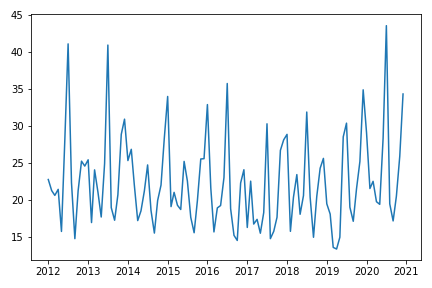
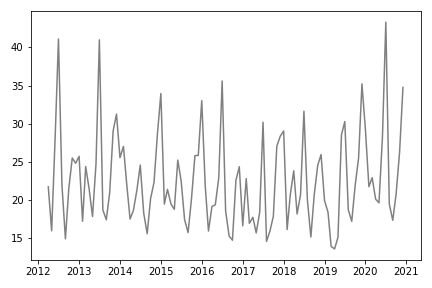
update

diff --git a/src/figures.py b/src/figures.py
@@ -22,17 +22,10 @@ def setup():
 
 def load_data(wd):
     df_yearly = pd.read_csv(wd.parent/'out'/'data'/'dataset_yearly.csv')
-    df = pd.read_csv(wd.parent/'out'/'data'/'dataset_all.csv')
-    # prepare data
-    #df = df[df.pop_dens != 0] # drop grid cells with no population
-    #df = df[df.nl.notnull()] # first 3 months of 2012 no data for nightlight
-    #df = df[df.pop_dens > 0] # drop grid cells with no population
-    #df = df[df.date_first_vend_prepaid.notnull()]
-    #df = df[df.dist_tr <= 0.02]
+    df = pd.read_csv(wd.parent/'out'/'data'/'dataset_month.csv')
     counties = df[df.date_first_vend_prepaid.notnull()].county.unique().tolist()
     df = df[df.county.isin(counties)]
     df_yearly = df_yearly[df_yearly.county.isin(counties)]
-
     return df, df_yearly, counties
 
 def load_shp(wd, counties):
@@ -72,7 +65,7 @@ def plot_trans(gdf_trans, Kenya, path_figure):
     plt.legend()
     fig.savefig(path_figure/f'map_Transformers',bbox_inches='tight',pad_inches = 0,dpi=200)  
 
-def plot_population(df_yearly, path_figure):
+def plot_population(df_yearly, path_figure, cmap='PuBuGn', save=True):
     gdf_yearly = gpd.GeoDataFrame(df_yearly, geometry=df_yearly['geometry'].apply(wkt.loads))
     # plot pop dens of 2015
     data = gdf_yearly[gdf_yearly.year == 2015]
@@ -82,13 +75,14 @@ def plot_population(df_yearly, path_figure):
     vcenter = data[[v]].quantile(0.5)[0]
     divnorm = colors.TwoSlopeNorm(vmin=vmin, vcenter=vcenter, vmax=vmax)
     fig, ax = plt.subplots()
-    data.plot(column=v, ax=ax, alpha=.7, cmap='PuBuGn', norm=divnorm, legend=True)
+    data.plot(column=v, ax=ax, alpha=.7, cmap=cmap, norm=divnorm, legend=True)
     Kenya.plot(ax=ax, facecolor='None', edgecolor='grey')
     ax.set_axis_off()
     plt.tight_layout()
-    fig.savefig(path_figure/f'map_2015_pop_dens',bbox_inches='tight',pad_inches = 0,dpi=200)
+    if save==True:
+        fig.savefig(path_figure/f'map_2015_pop_dens',bbox_inches='tight',pad_inches = 0,dpi=200)
 
-def plot_pol_nl(df_yearly, path_figure):
+def plot_pol_nl(df_yearly, path_figure, cmap='PuBuGn', save=True):
     gdf_yearly = gpd.GeoDataFrame(df_yearly, geometry=df_yearly['geometry'].apply(wkt.loads))
     # plot nightlight and pollution
     years = [2015, 2020]
@@ -101,20 +95,27 @@ def plot_pol_nl(df_yearly, path_figure):
         fig, axes = plt.subplots(ncols=2, sharey=True, sharex=True,constrained_layout = True, figsize=(7,5))
         for y in range(len(years)):
             datay = data[data.year == years[y]] #'PuRd''
-            datay.plot(column=v, ax=axes[y], alpha=.7, cmap='PuBuGn', norm=divnorm) 
+            datay.plot(column=v, ax=axes[y], alpha=.7, cmap=cmap, norm=divnorm) 
             Kenya.plot(ax=axes[y], facecolor='None', edgecolor='grey')
             axes[y].set_axis_off()
         patch_col = axes[0].collections[0]
         cb = fig.colorbar(patch_col, ax=axes, shrink=.5)
-        fig.savefig(path_figure/f'map_{v}',bbox_inches='tight',pad_inches = 0, dpi=200)
+        if save==True:
+            fig.savefig(path_figure/f'map_{v}',bbox_inches='tight',pad_inches = 0, dpi=200)
 
 def plot_ts(df, var):
-    data = df[df.date_first_vend_prepaid.notnull() & (df.dist_tr <= 0.02) & df.pop_dens.notnull()]
-    ts = data.groupby(['yearmonth'])[var].mean().reset_index()
+    # prepare data
+    filter = 'date_first_vend_prepaid.notnull() & nl.notnull() & date_first_vend_prepaid >= 2015 & dist_tr <= 0.02'
+
+    df.query(filter, inplace=True)
+    #df = df[df.pop_dens > 0] # drop grid cells with no population
+    #df = df[df.nl.notnull()] # first 3 months of 2012 no data for nightlight
+    #df = df[df.dist_tr <= 0.02] # drop grid cells far away from transformer
+    ts = df.groupby(['yearmonth'])[var].mean().reset_index()
     ts['yearmonth'] = pd.to_datetime(ts['yearmonth'], format='%Y%m')
     fig, ax = plt.subplots()    
     #ax.set_prop_cycle(color=cls)
-    ax.plot('yearmonth',var, data=ts)
+    ax.plot('yearmonth',var, data=ts, color="grey")
     #ax.legend()
     plt.tight_layout()
     fig.savefig(path_figure/f'ts_{var}_mean.png')
@@ -127,8 +128,8 @@ if __name__ == "__main__":
     #
     plot_Kenya(Kenya, Kenya_all, path_figure)
     plot_trans(gdf_trans, Kenya, path_figure)
-    plot_population(df_yearly, path_figure)
-    plot_pol_nl(df_yearly, path_figure)
+    plot_population(df_yearly, path_figure, cmap="plasma", save=True)
+    plot_pol_nl(df_yearly, path_figure, cmap="plasma", save=True)
     #
     plot_ts(df, "pol")
     plot_ts(df, "nl")

diff --git a/src/merge_all.py b/src/merge_all.py
@@ -2,7 +2,8 @@
 merge raster data with transformer and consumption information
 
 output:
-dataset_all.csv
+dataset_month.csv
+dataset_quarter.csv
 dataset_yearly.csv
 '''
 
@@ -16,7 +17,9 @@ import numpy as np
 from shapely import wkt
 
 def merge_columns(col1, col2, df, drop = True):
-    # replace col1 if nan by col2, drop col2 afterwards
+    ''' 
+    replace col1 if nan by col2, drop col2 afterwards
+    '''
     df.loc[df[col1].isnull(),col1] = df.loc[df[col1].isnull(),col2]
     if drop==True : df = df.drop(col2, axis=1)
     return df
@@ -71,6 +74,24 @@ def get_transformers():
     gdf['type'] = gdf['filename'].apply(lambda row: re.search(types, row, re.IGNORECASE).groups()[0] if type(row) == str else np.nan)   
 
     return gdf
+
+def quarters(yearmonth):
+    '''
+    get quarter of month
+    '''
+    try:
+        yearmonth = str(yearmonth)
+        year = yearmonth[:4]
+        month = int(yearmonth[-2:])
+        if month <= 3: quarter = 0
+        elif month <= 6: quarter = 0.25
+        elif month <= 9: quarter = 0.5
+        elif month <= 12: quarter = 0.75
+        else: np.nan
+        yearquarter = int(year) + quarter
+        return yearquarter  
+    except: return np.nan
+          
         
 
 if __name__ == "__main__":
@@ -86,12 +107,12 @@ if __name__ == "__main__":
     Kenya.county = Kenya.county.str.lower()
 
     # load raster data
-    raster = pd.read_csv(wd.parent/'out'/'data'/'raster_merged.csv') 
-    raster = gpd.GeoDataFrame(raster, geometry=raster['geometry'].apply(wkt.loads), crs= Kenya.crs)  
- 
+    df = pd.read_csv(wd.parent/'out'/'data'/'raster_merged.csv') 
+    df = gpd.GeoDataFrame(df, geometry=df['geometry'].apply(wkt.loads), crs= Kenya.crs)  
+    
     # merge raster data with county
     # this creates some duplicates since some grid cells cover more than one county, drop later based on shortest distance to transformer
-    df = raster#.sjoin(Kenya, how='left').drop(columns=['index_right'], axis=1)
+    #df = raster#.sjoin(Kenya, how='left').drop(columns=['index_right'], axis=1)
 
     # load transformer data
     transformers = get_transformers()
@@ -139,11 +160,22 @@ if __name__ == "__main__":
 
     df_long['year'] = df_long['yearmonth'].astype(str).apply(lambda row: row[0:4])
 
-    # export to csv
-    df_long.to_csv(wd.parent/'out'/'data'/'dataset_all.csv', index=False)
-
+    # bring it to quaterly level
+    df_long['yearquarter'] = df_long['yearmonth'].apply(quarters)
+    df_long['date_first_vend_prepaid'] = df_long['date_first_vend_prepaid'].apply(quarters)
+    
     # make it yearly 
     df_year = df_long.groupby(['index','year'])[['pol','nl']].mean().reset_index()
-    df_year = df_year.merge(df_long.drop(['pol','nl','yearmonth'],axis=1).drop_duplicates(), how='left', on=['index','year'])
+    df_year = df_year.merge(df_long.drop(['pol','nl','yearmonth','yearquarter'],axis=1).drop_duplicates(), how='left', on=['index','year'])
+
+    # filter data - exclude cells with negative population density
+    df_long = df_long[(df_long.pop_dens > 0)]
+        
+    df_quarterly = df_long.groupby(['index','yearquarter'])[['pol','nl']].mean().reset_index()
+    df_long_quarterly = df_quarterly.merge(df_long.drop(['pol','nl', "yearmonth"],axis=1).drop_duplicates(), how='left', on=['index','yearquarter'])
+         
+
     # export to csv
+    df_long.to_csv(wd.parent/'out'/'data'/'dataset_month.csv', index=False)
+    df_long_quarterly.to_csv(wd.parent/'out'/'data'/'dataset_quarter.csv', index=False)
     df_year.to_csv(wd.parent/'out'/'data'/'dataset_yearly.csv', index=False)    

diff --git a/src/descriptive_stats.py b/src/descriptive_stats.py
@@ -12,12 +12,30 @@ path_stats = wd.parent/'out'/'results'
 
 # load data
 df = pd.read_csv(wd.parent/'out'/'data'/'dataset_yearly.csv')
+df_quarter = pd.read_csv(wd.parent/'out'/'data'/'dataset_quarter.csv')
 
 # prepare data
-#df = df[df.pop_dens != 0] # drop grid cells with no population
-#df = df[df.nl.notnull()]
-df = df[df.date_first_vend_prepaid.notnull()]
-df = df[df.dist_tr <= 0.02]
+filter = 'date_first_vend_prepaid.notnull() & nl.notnull() & date_first_vend_prepaid >= 2015 & dist_tr <= 0.02 & pop_dens >0'
+
+df.query(filter, inplace=True)
+df_quarter.query(filter, inplace=True)
+
+name_dict = {"pol":"air pollution", "nl":"nightlight", "pop_dens":"population density"}
+cor_quar = df_quarter[["pol","nl"]].corr().applymap(lambda x: "{:.2f}".format(x))
+cor_year = df.loc[df.year==2015,["pol","nl","pop_dens"]].corr().applymap(lambda x: "{:.2f}".format(x))
+
+cor_table = cor_quar.append(cor_year['pop_dens'])
+
+cor_table.loc["pol","nl"] = np.nan
+
+cor_table = cor_table.fillna("-").rename(columns=name_dict, index=name_dict)
+
+col_align = "r" + cor_table.shape[1]* "c"
+cap = "correlation table - the last row measures the correlation when the data is aggregated to the year 2015 to match the population date. The other rows correspond to the whole sample that is taken for the analysis."
+
+with open(path_stats/'stats_corr.tex','w') as tf:
+    tf.write(cor_table.style.to_latex(position='H', hrules=True,  label='tab:stats-cor', environment='longtable', multicol_align='c', column_format=col_align, caption=cap))
+
 
 # https://stackoverflow.com/questions/54466196/descriptive-statistics-in-python-with-pandas-with-std-in-parentheses
 idx = pd.IndexSlice
@@ -35,7 +53,7 @@ df_new = pd.DataFrame(df_desc.values, index=["nightlight", "", "air pollution", 
 
 col_align = 'l' + len(years)*'c'
 
-cap = "mean and standard deviation (in parentheses) of nightlight and air pollution by year"
+cap = r"mean and standard deviation (in parentheses) of nightlight (in $nW/cm^2/sr$ ) and PM concentration (in $\mu g/m^3$) by year"
 
 with open(path_stats/'stats.tex','w') as tf:
     tf.write(df_new.style.to_latex(position='H', hrules=True,  label='tab:stats', environment='longtable', multicol_align='c', column_format=col_align, caption=cap))
@@ -53,6 +71,7 @@ with open(path_stats/'tab_counties.tex','w') as tf:
     tf.write(tab_counties.style.to_latex(position='H', caption='number of transformers per county',  label='tab:counties', hrules=True, column_format='lc',environment='longtable'))
 ##########################
 # how many grid cells per transformer
+'''
 trans_ncells = df[(df.year==2020)].groupby(['geometry_transformer','county'])['index'].nunique().rename('n_index')#.describe()
 
 gdf_trans = gdf_trans.merge(trans_ncells, right_index = True, left_on = ['geometry_transformer','county'])
@@ -77,3 +96,4 @@ for i,row in gdf_trans[gdf_trans.county == cty].iterrows():
     ax.annotate(row.n_index,xy=(geom_x, geom_y), xytext=(7, 0), textcoords="offset points")
 plt.xlim(37.75, 38.3)
 plt.ylim(-1.7,-0.75)
+'''
